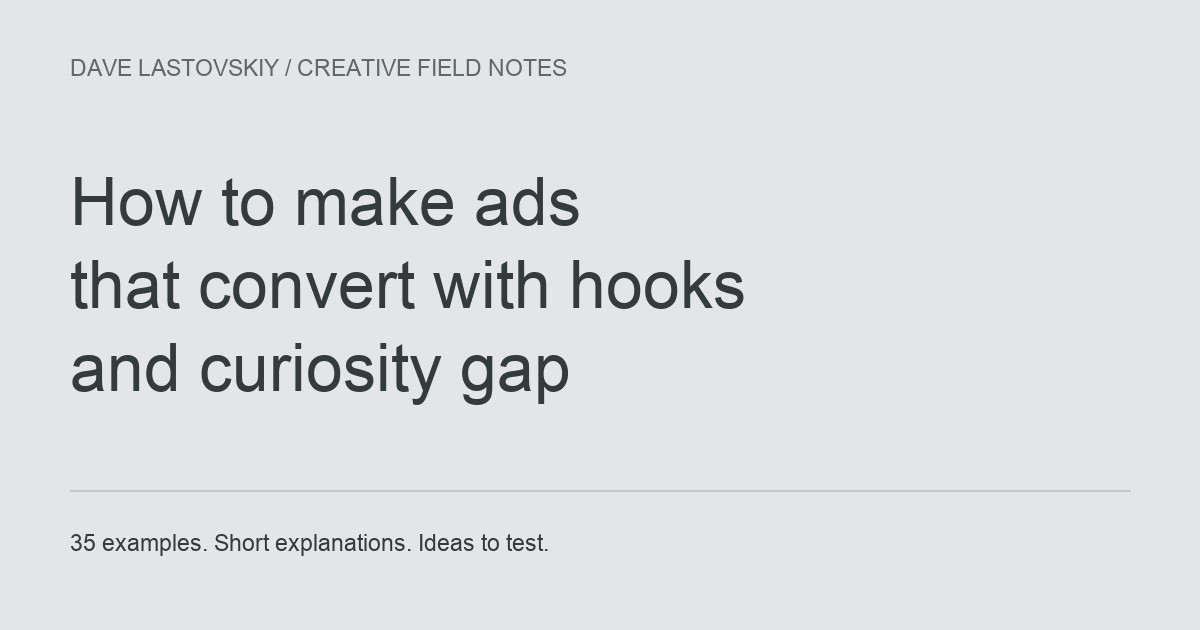
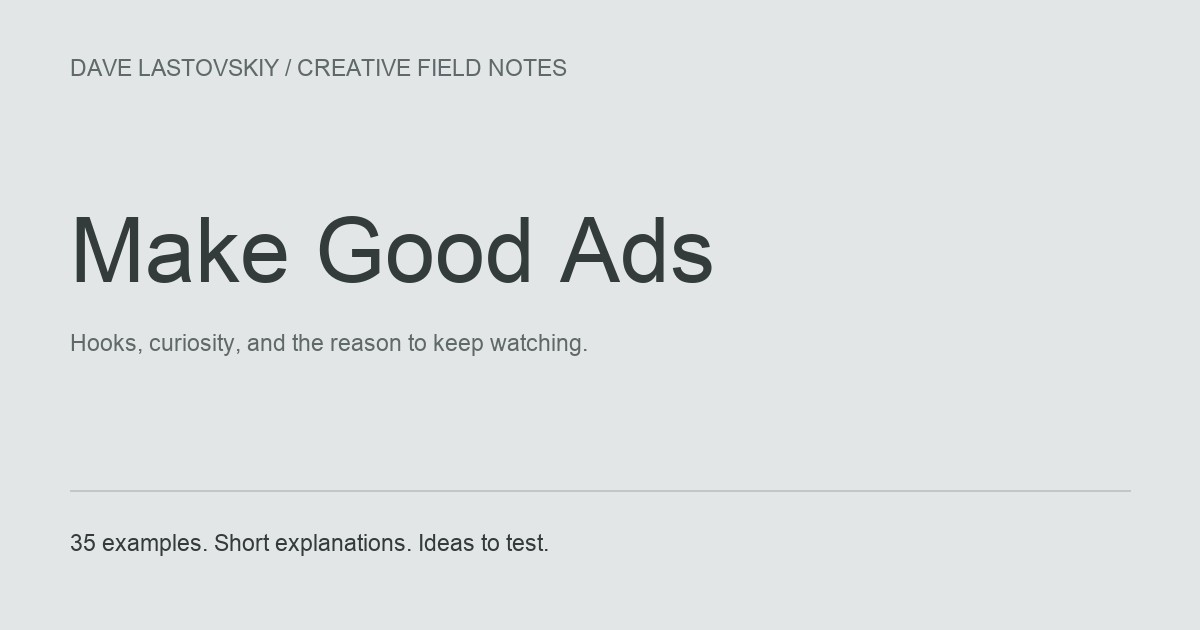
Rename guide to Make Good Ads and move homepage link to Projects

Changed region(s): [[0.0617, 0.2714, 0.6167, 0.6635]]

diff --git a/how-to-make-good-ads-hooks-curiosity/index.html b/how-to-make-good-ads-hooks-curiosity/index.html
@@ -3,20 +3,20 @@
 <head>
 <meta charset="utf-8">
 <meta name="viewport" content="width=device-width, initial-scale=1">
-<title>How to make ads that convert with hooks and curiosity gap | Dave Lastovskiy</title>
+<title>Make Good Ads | Dave Lastovskiy</title>
 <meta name="description" content="35 examples of hooks, curiosity gaps, and premium ad creative. Short explanations of what to notice and how to apply it.">
 <link rel="canonical" href="https://davelasto.com/how-to-make-good-ads-hooks-curiosity">
 <meta property="og:type" content="article">
-<meta property="og:title" content="How to make ads that convert with hooks and curiosity gap">
+<meta property="og:title" content="Make Good Ads">
 <meta property="og:description" content="35 examples of hooks, curiosity gaps, and premium ad creative. Short explanations of what to notice and how to apply it.">
 <meta property="og:url" content="https://davelasto.com/how-to-make-good-ads-hooks-curiosity">
 <meta property="og:site_name" content="Dave Lastovskiy">
 <meta property="og:image" content="https://davelasto.com/how-to-make-good-ads-hooks-curiosity/assets/social.jpg">
 <meta property="og:image:width" content="1200">
 <meta property="og:image:height" content="630">
-<meta property="og:image:alt" content="Hooks, curiosity, and the reason to keep watching. A guide by Dave Lastovskiy.">
+<meta property="og:image:alt" content="Make Good Ads. A guide to hooks and curiosity by Dave Lastovskiy.">
 <meta name="twitter:card" content="summary_large_image">
-<meta name="twitter:title" content="How to make ads that convert with hooks and curiosity gap">
+<meta name="twitter:title" content="Make Good Ads">
 <meta name="twitter:description" content="35 examples of hooks, curiosity gaps, and premium ad creative. Short explanations of what to notice and how to apply it.">
 <meta name="twitter:image" content="https://davelasto.com/how-to-make-good-ads-hooks-curiosity/assets/social.jpg">
 <link rel="preconnect" href="https://fonts.googleapis.com">
@@ -30,7 +30,7 @@
 <header class="wrap">
   <a class="home" href="/">← Dave Lastovskiy</a>
   <p class="eyebrow">Creative field notes / 35 examples</p>
-  <h1>How to make ads that convert with hooks and curiosity gap</h1>
+  <h1>Make Good Ads</h1>
   <p class="lede">A good hook makes the right person want the next sentence. A curiosity gap gives them a reason to stay.</p>
   <p class="intro-note">A collection of tutorials, creative breakdowns, and brand examples. What to notice, why it holds attention, and how to use the idea in your own ads.</p>
   <details class="principles"><summary>The short version: eight ideas to keep in mind</summary><ol><li><strong>Start with partial knowledge</strong><p>Establish something familiar, then introduce the missing piece.</p></li><li><strong>Align the first three seconds</strong><p>Make the picture, spoken line, and on-screen text tell the same opening idea.</p></li><li><strong>Make a promise</strong><p>Give the viewer a question or problem the rest of the ad will resolve.</p></li><li><strong>Keep the setup clear</strong><p>Curiosity works when the viewer understands why the answer matters.</p></li><li><strong>Build a testing system</strong><p>Vary hooks, explanations, and calls to action so you can learn what changes results.</p></li><li><strong>Show the outcome</strong><p>Make the desired change visible through a scene, a use case, or a demonstration.</p></li><li><strong>Recognize, then reveal</strong><p>Begin with a thought the buyer knows, challenge it, and earn the payoff.</p></li><li><strong>Keep a consistent point of view</strong><p>Use restraint and repetition to build recognition across different executions.</p></li></ol></details>

diff --git a/index.html b/index.html
@@ -48,11 +48,8 @@ a:focus-visible { outline: 2px solid #0000ee; outline-offset: 4px; }
         <h3><a href="http://getoutlet.co/">Outlet</a></h3>
         <p>Previously a marketing consultancy, currently a playground.</p>
       </article>
-    </section>
-    <section class="projects" aria-labelledby="writing-heading">
-      <h2 id="writing-heading">Writing</h2>
       <article>
-        <h3><a href="/how-to-make-good-ads-hooks-curiosity">How to make ads that convert with hooks and curiosity gap</a></h3>
+        <h3><a href="/how-to-make-good-ads-hooks-curiosity">Make Good Ads</a></h3>
         <p>35 examples of hooks, curiosity gaps, and ad creative, with short notes on how to use them.</p>
       </article>
     </section>

diff --git a/tools/build-ad-playbook.py b/tools/build-ad-playbook.py
@@ -15,7 +15,7 @@ for entry in entries:
     assert entry['url'] == f"https://www.instagram.com/reel/{entry['id']}/"
     assert (PAGE / entry['image']).is_file(), f"Missing screenshot: {entry['id']}"
 
-title = 'How to make ads that convert with hooks and curiosity gap'
+title = 'Make Good Ads'
 description = '35 examples of hooks, curiosity gaps, and premium ad creative. Short explanations of what to notice and how to apply it.'
 canonical = 'https://davelasto.com/how-to-make-good-ads-hooks-curiosity'
 principles = [
@@ -69,7 +69,7 @@ html = f'''<!doctype html>
 <meta property="og:image" content="{canonical}/assets/social.jpg">
 <meta property="og:image:width" content="1200">
 <meta property="og:image:height" content="630">
-<meta property="og:image:alt" content="Hooks, curiosity, and the reason to keep watching. A guide by Dave Lastovskiy.">
+<meta property="og:image:alt" content="Make Good Ads. A guide to hooks and curiosity by Dave Lastovskiy.">
 <meta name="twitter:card" content="summary_large_image">
 <meta name="twitter:title" content="{title}">
 <meta name="twitter:description" content="{description}">

diff --git a/how-to-make-good-ads-hooks-curiosity/README.md b/how-to-make-good-ads-hooks-curiosity/README.md
@@ -1,6 +1,6 @@
 # Ads, hooks, and curiosity gap
 
-Static page for `/how-to-make-good-ads-hooks-curiosity`, linked from the homepage's Writing section. GitHub Pages serves the directory's `index.html`; the clean URL redirects to its directory URL.
+Make Good Ads is a static page for `/how-to-make-good-ads-hooks-curiosity`, linked from the homepage's Projects section. GitHub Pages serves the directory's `index.html`; the clean URL redirects to its directory URL.
 
 ## Updating the page
 
